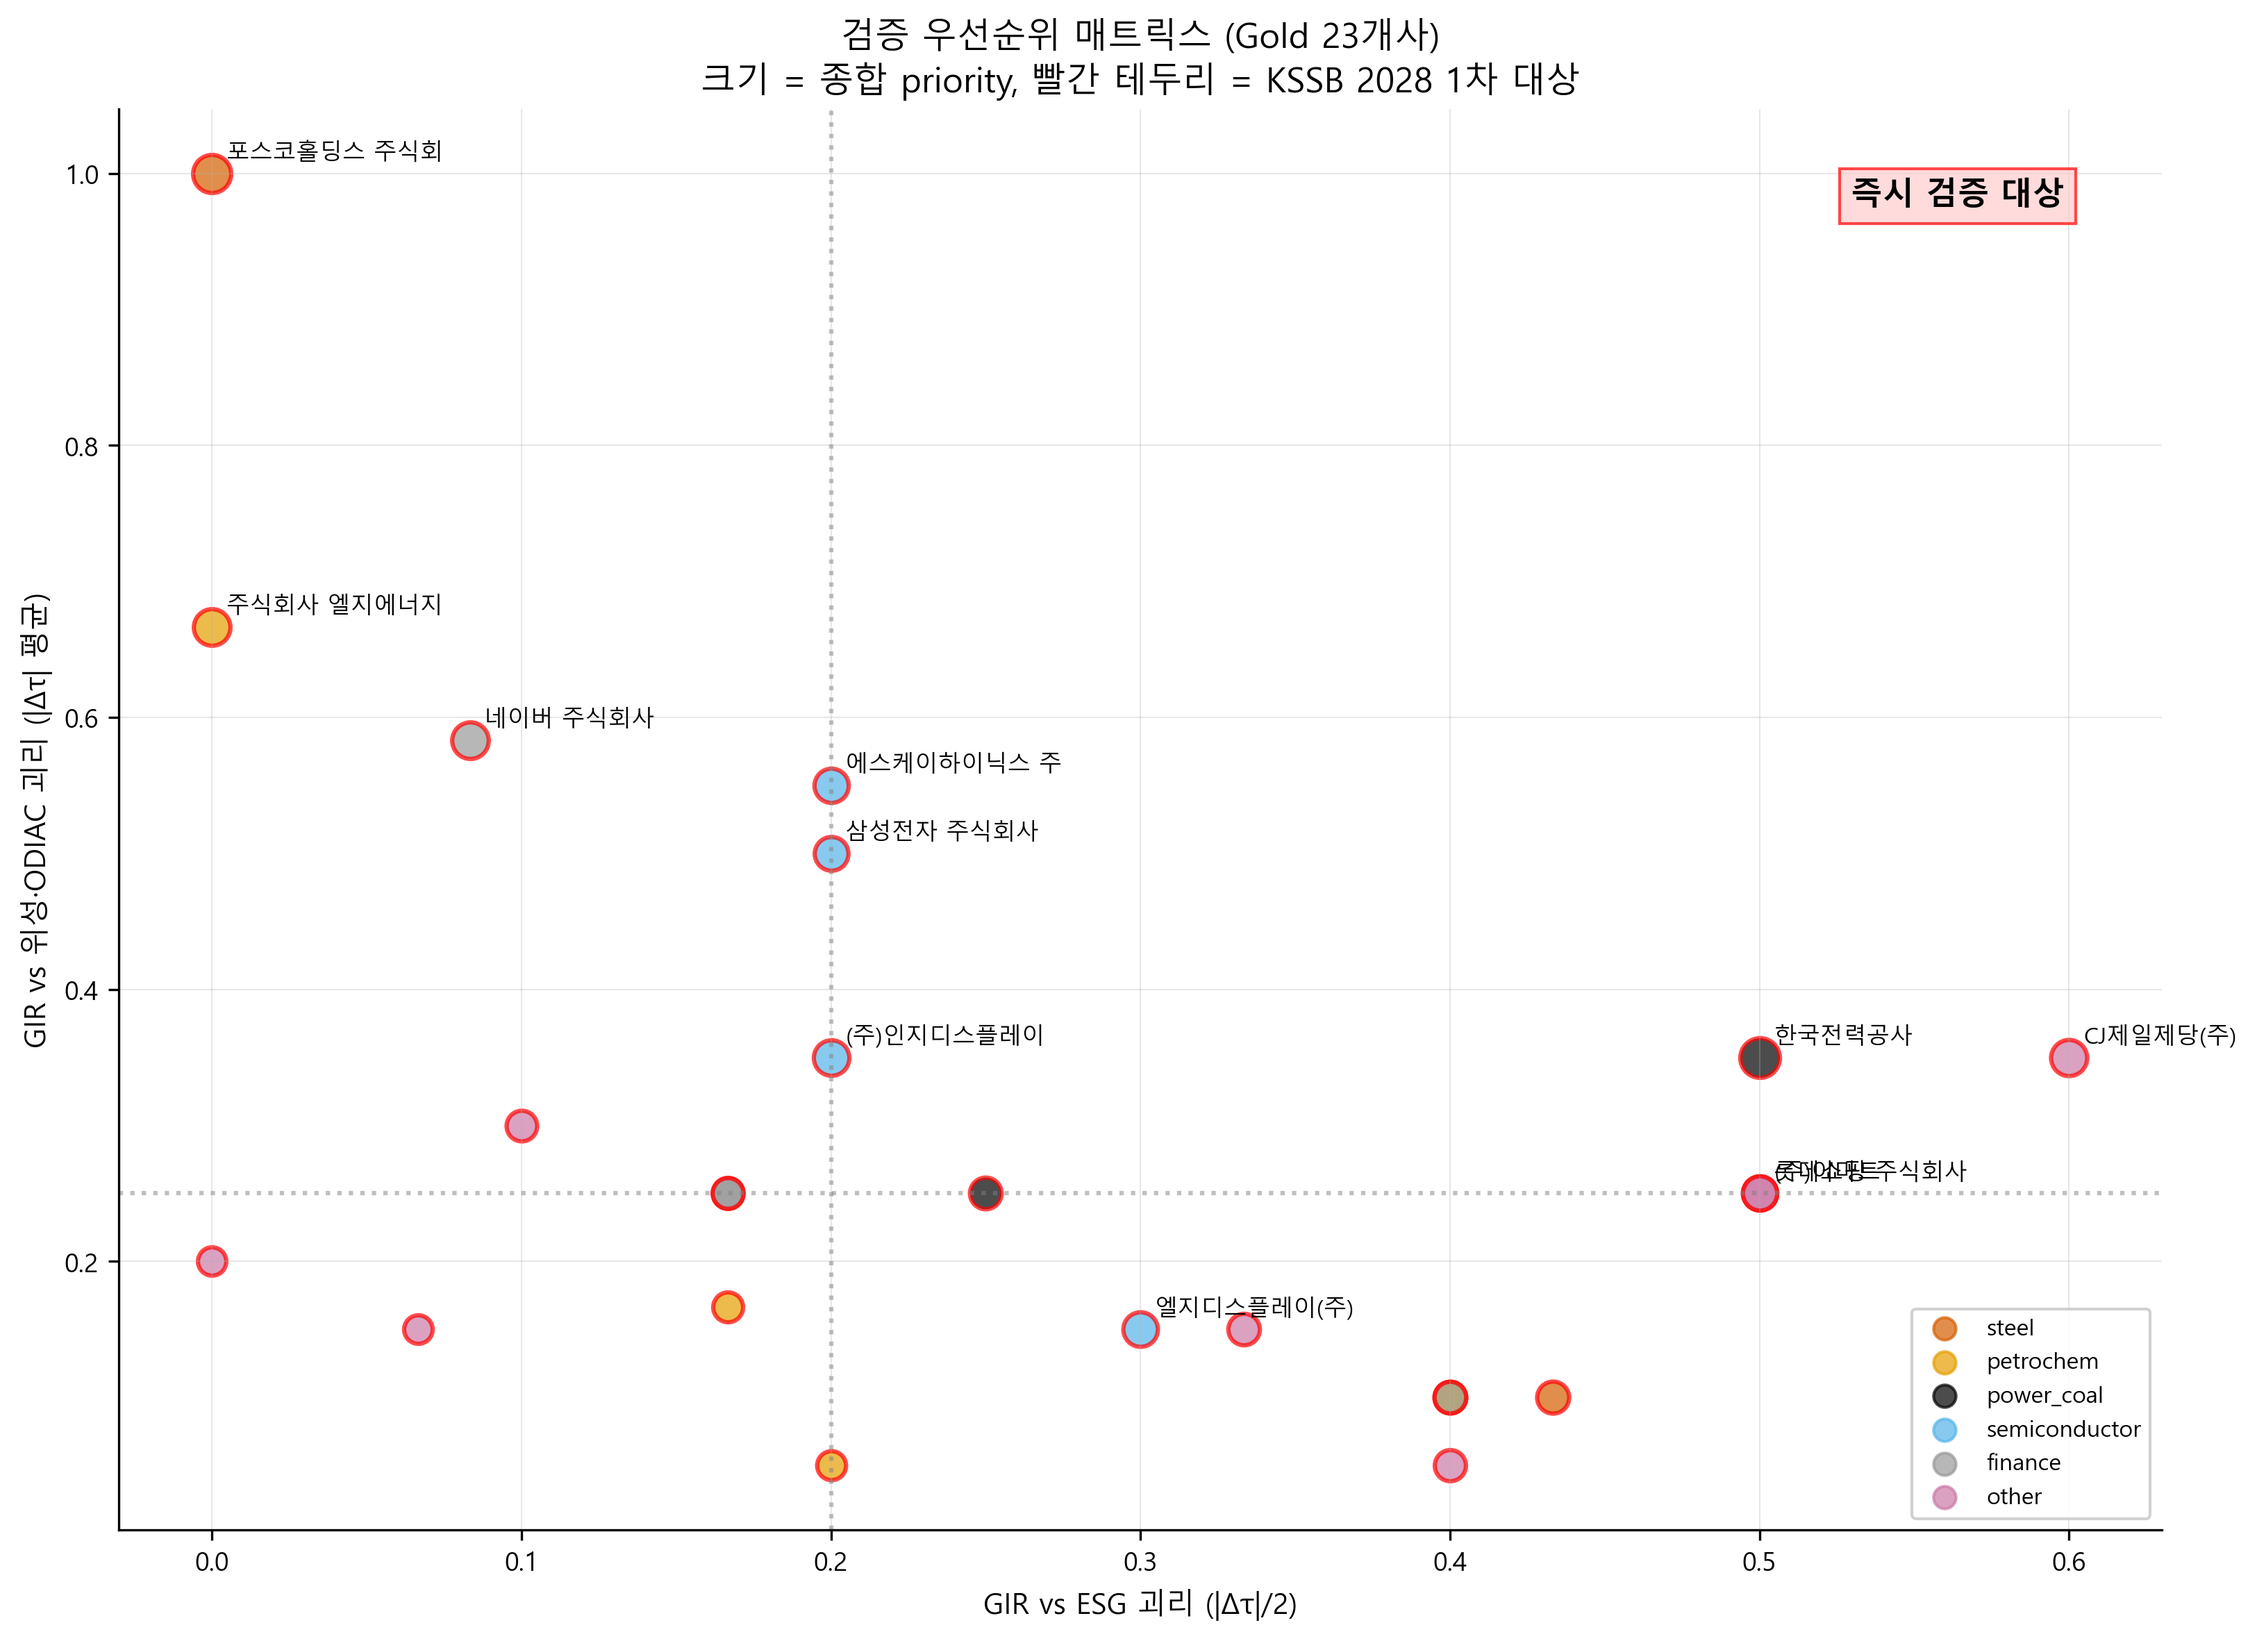
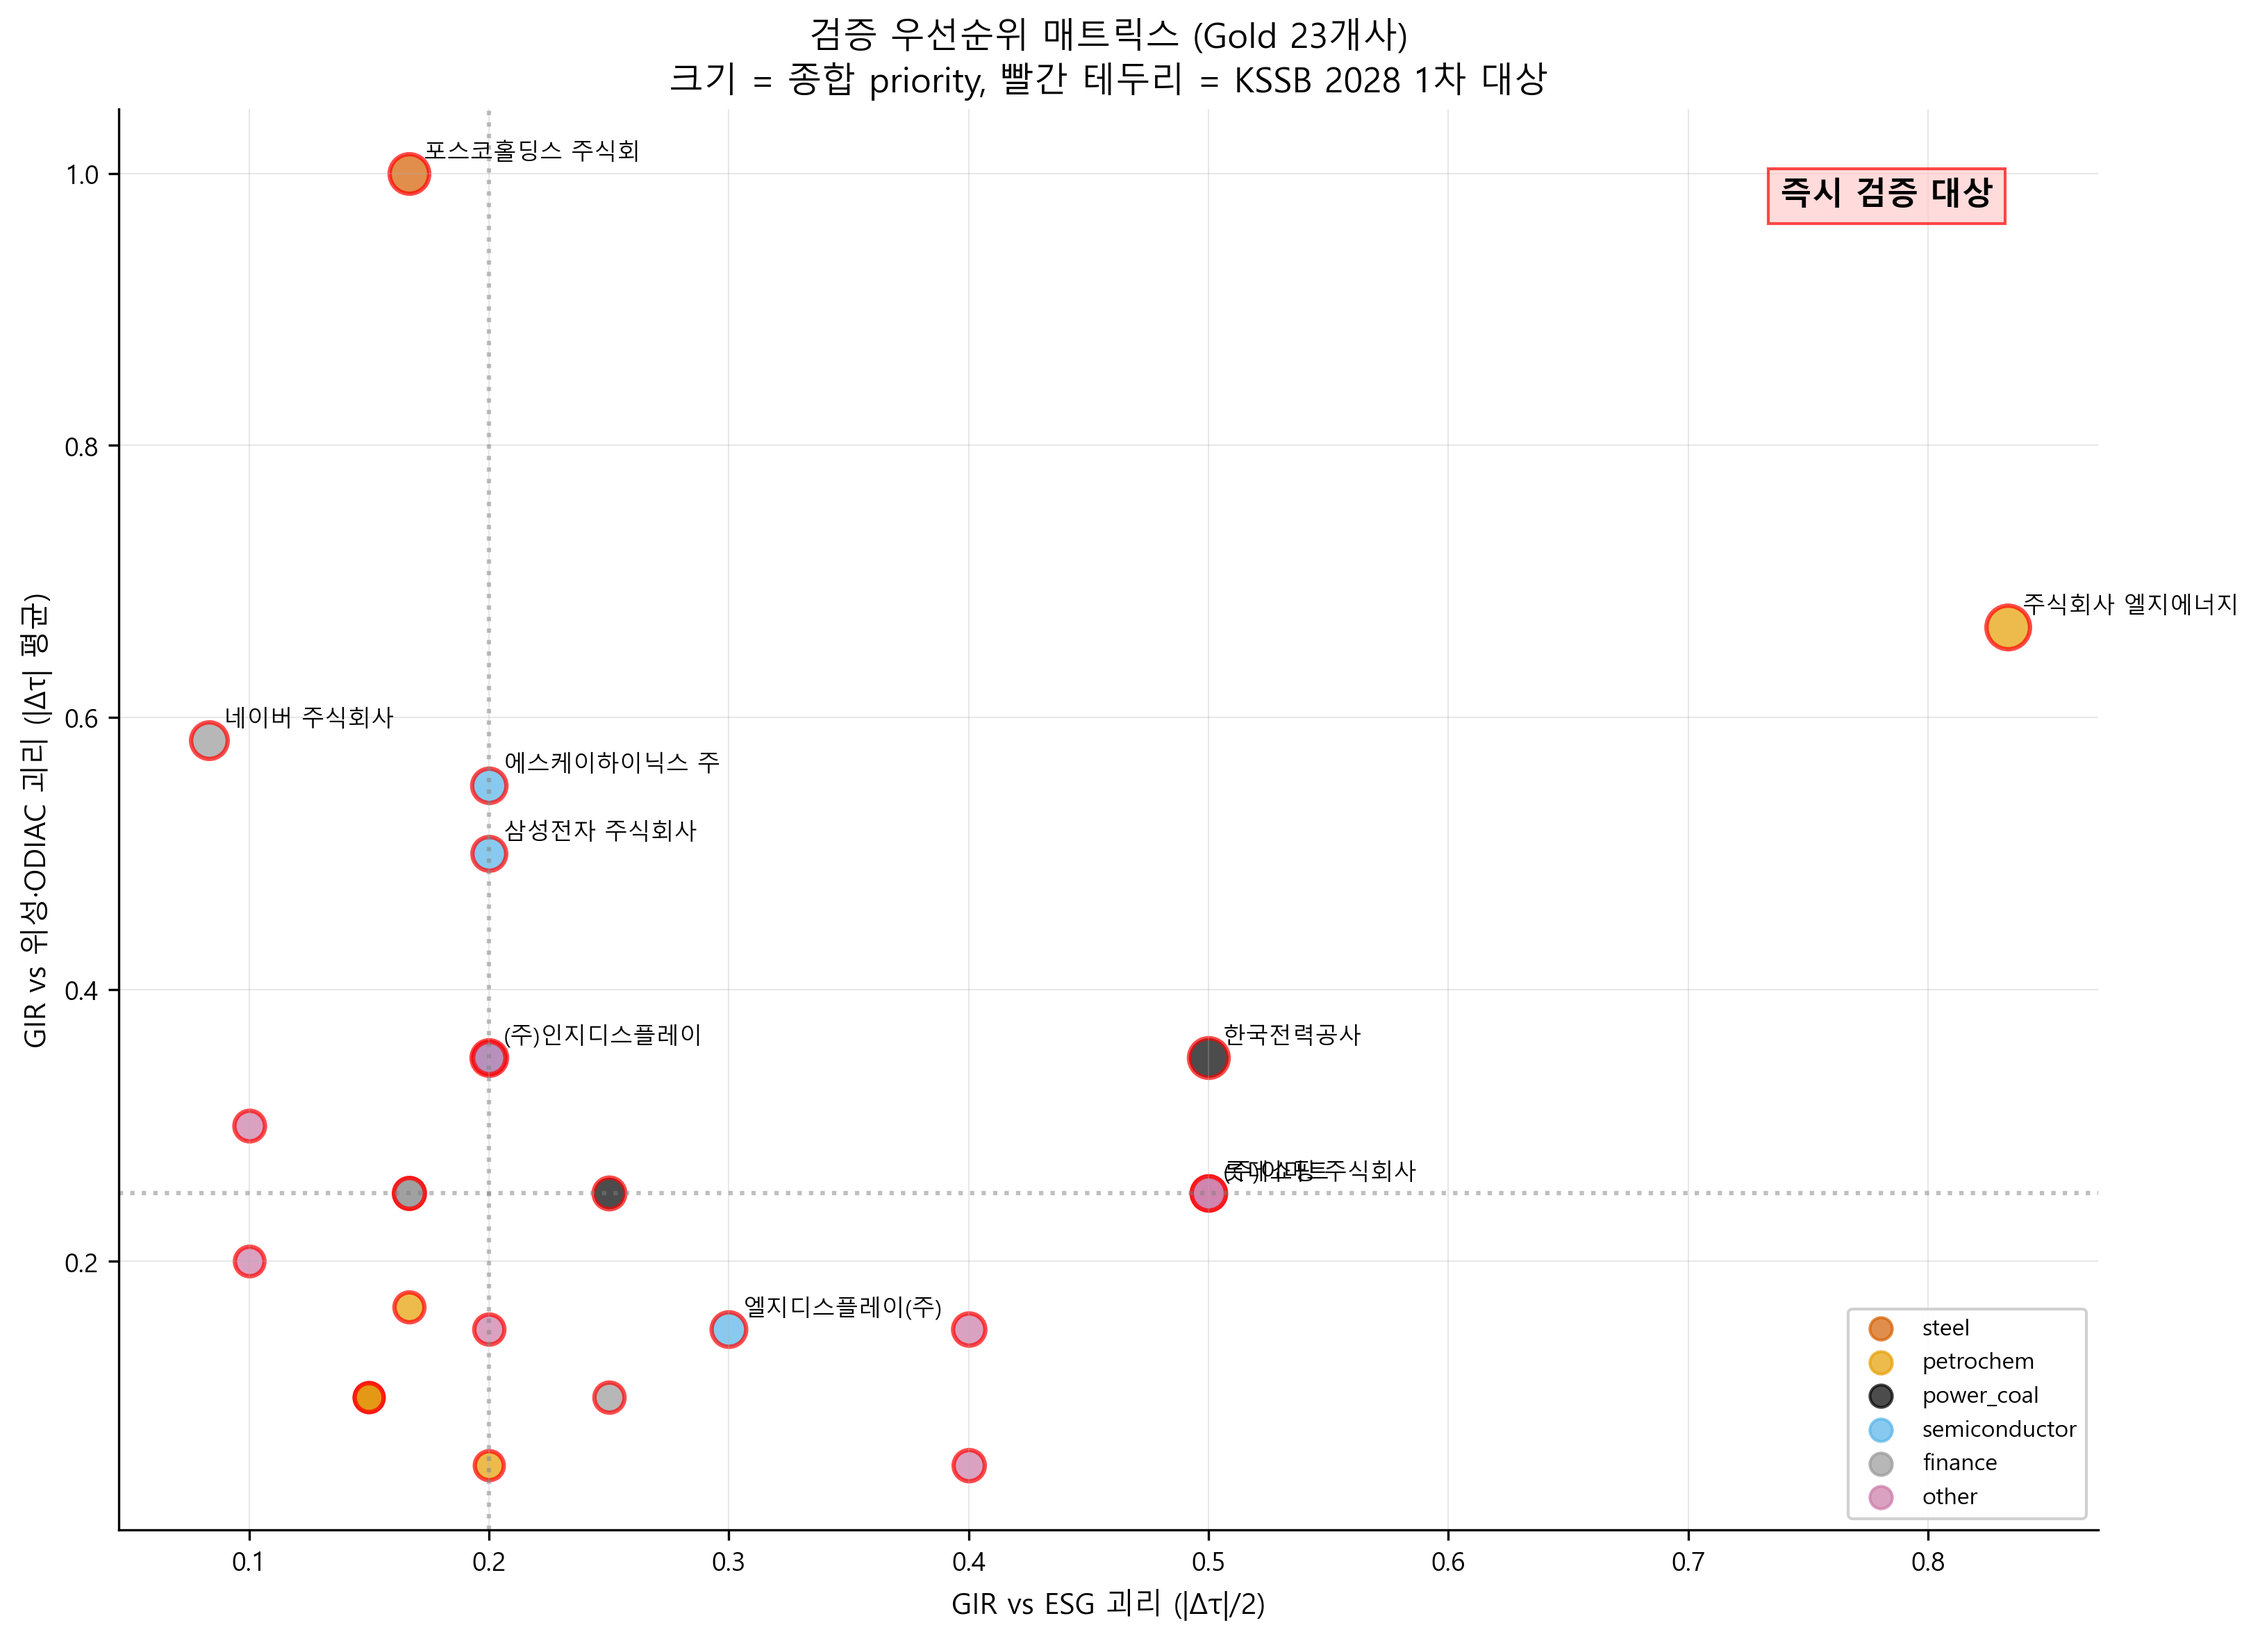
feat: FINAL PIPELINE v5 — 126 PDFs parsed (98%) → 76% ESG coverage
Parser v5: 126 PDFs → 123 Scope 1 extracted (HIGH 21 / MEDIUM 91 / LOW 14)
Integrated panel: 157×51, ESG 60% → 76% (119/157)

**결정적 실증 발견**:
- D 패턴 (공시↑ but 물리측정↓) 2개사 확정:
  * 포스코홀딩스: GIR+1.00, ESG+0.67, 위성-1.00, ODIAC-1.00 (극단)
  * 삼성전자: GIR+0.60, ESG+1.00, 위성-0.40, ODIAC-0.40
- C 패턴 (GIR 의심): 현대모비스 (GIR-0.4, ESG+0.4)
- A down 12, mixed 8, A up 1 (네이버)

Anomaly detection:
- Contamination sweep: c=0.05→4, c=0.10→8, c=0.15→17, c=0.20→21

Heckman Stage 2: N=104, 23 firms
- Bootstrap CI 2000 iterations, firm-block

All regenerated:
- 10 figures (GIR/satellite/ODIAC/case/patterns/MK forest/SHAP×2/priority/heatmap)
- 4 tables (sample/coverage/patterns/regression)
- SHAP values on 115 firm-years × 8 features

23 commits total, all ADR-linked.

diff --git a/report/tables/table04_regression.md b/report/tables/table04_regression.md
@@ -4,15 +4,15 @@
 
 | 변수 | β | SE | 95% CI (Boot) |
 |---|---|---|---|
-| const | -73.197 | 17.001 | [-97.477, +13.407] |
-| ln_gir | -1.995 | 1.063 | [-8.929, -0.205] |
-| imr | -12.691 | 13.499 | [-46.700, +2.264] |
-| ind_other | +12.842 | 11.908 | [-0.154, +38.670] |
-| ind_petrochem | +5.271 | 5.253 | [-2.530, +31.314] |
-| ind_power_coal | -0.253 | 2.447 | [-13.036, +7.209] |
-| ind_semiconductor | +4.973 | 1.810 | [-0.379, +31.490] |
-| ind_steel | +9.156 | 7.760 | [-16.609, +40.092] |
-| yr_2020 | -2.358 | 3.052 | [-12.255, +1.130] |
-| yr_2021 | +11.494 | 9.406 | [+0.131, +32.980] |
-| yr_2022 | -6.603 | 8.457 | [-29.101, +2.824] |
-| yr_2023 | -6.300 | 8.341 | [-28.440, +3.052] |
+| const | +934.340 | 625.852 | [-98.053, +2488.078] |
+| ln_gir | -92.641 | 54.352 | [-216.310, -0.134] |
+| imr | +166.192 | 124.521 | [-225.916, +392.865] |
+| ind_other | +60.845 | 85.748 | [-121.896, +289.307] |
+| ind_petrochem | +157.697 | 150.666 | [-103.646, +580.734] |
+| ind_power_coal | +13.026 | 159.843 | [-401.422, +372.495] |
+| ind_semiconductor | +242.091 | 202.603 | [-0.044, +947.968] |
+| ind_steel | +1086.280 | 594.820 | [-0.000, +2352.595] |
+| yr_2020 | -18.750 | 19.750 | [-59.252, +9.668] |
+| yr_2021 | -3.814 | 79.861 | [-307.142, +52.125] |
+| yr_2022 | -19.975 | 78.749 | [-315.865, +29.874] |
+| yr_2023 | +283.138 | 250.805 | [-8.389, +741.532] |

diff --git a/report/tables/table03_pattern_results.md b/report/tables/table03_pattern_results.md
@@ -10,8 +10,8 @@
 | **A** | 일관 상승 (GIR·ESG·위성 모두 ↑) | 1 | 네이버 주식회사 |
 | **A** | 일관 하강 (GIR·ESG·위성 모두 ↓) | 12 | (주)두산, (주)한화, 현대자동차 주식회사, 롯데케미칼 주식회사, 한국전력공사 |
 | **C** | GIR 의심 (ESG·위성 일치, GIR 반대) | 1 | 현대모비스(주) |
-| **D** | 최심각 (위성 ≠ GIR · ESG) | 1 | 삼성전자 주식회사 |
-| **mixed** | 혼합 (부분 일치) | 9 | 에스케이하이닉스 주식회, 대한항공, 현대제철 주식회사, 포스코홀딩스 주식회사, 한화솔루션 주식회사 |
+| **D** | 최심각 (위성 ≠ GIR · ESG) | 2 | 포스코홀딩스 주식회사, 삼성전자 주식회사 |
+| **mixed** | 혼합 (부분 일치) | 8 | 에스케이하이닉스 주식회, 대한항공, 현대제철 주식회사, 한화솔루션 주식회사, 롯데쇼핑 주식회사 |
 
 ## 핵심 발견 기업 (상세)
 
@@ -20,6 +20,7 @@
 
 | 기업 | GIR τ | ESG τ | NO₂ τ | ODIAC τ |
 |---|---|---|---|---|
+| 포스코홀딩스 주식회사 | +1.00 | +0.67 | -1.00 | -1.00 |
 | 삼성전자 주식회사 | +0.60 | +1.00 | -0.40 | -0.40 |
 
 ### C — GIR 의심 (ESG·위성 일치, GIR 반대)

diff --git a/report/tables/table02_data_coverage.md b/report/tables/table02_data_coverage.md
@@ -5,7 +5,7 @@
 | 데이터 | 가용 | 커버리지 % |
 |---|---|---|
 | GIR Scope 1 | 115/115 | 100.0% |
-| ESG Scope 1 | 88/115 | 76.5% |
+| ESG Scope 1 | 104/115 | 90.4% |
 | 위성 NO₂ | 115/115 | 100.0% |
 | 위성 SO₂ | 115/115 | 100.0% |
 | 위성 CO | 115/115 | 100.0% |
